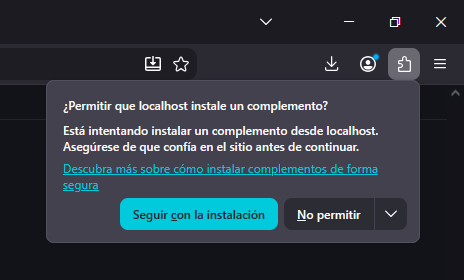
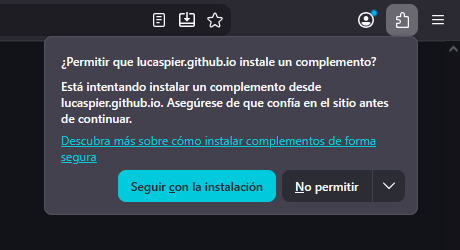
fix(landing): se corrige la captura del aviso de instalación en Firefox

diff --git a/index.html b/index.html
@@ -501,8 +501,8 @@
                                     oficial.</span>
                                 <span class="paso-extra">Puede que no te aparezca. Firefox pregunta una sola vez por
                                     sitio, así que si ya instalaste algo desde acá vas a saltar directo al paso 3.</span>
-                                <img class="paso-captura" width="464" height="280" src="imagenes/instalacion/firefox-aviso-instalacion.png"
-                                    alt="Firefox preguntando «¿Permitir que localhost instale un complemento?» con el botón «Seguir con la instalación»" loading="lazy">
+                                <img class="paso-captura" width="460" height="250" src="imagenes/instalacion/firefox-aviso-instalacion.png"
+                                    alt="Firefox preguntando «¿Permitir que lucaspier.github.io instale un complemento?» con el botón «Seguir con la instalación»" loading="lazy">
                             </li>
                             <li>
                                 <strong>Añadir la extensión.</strong> Firefox te va a mostrar
